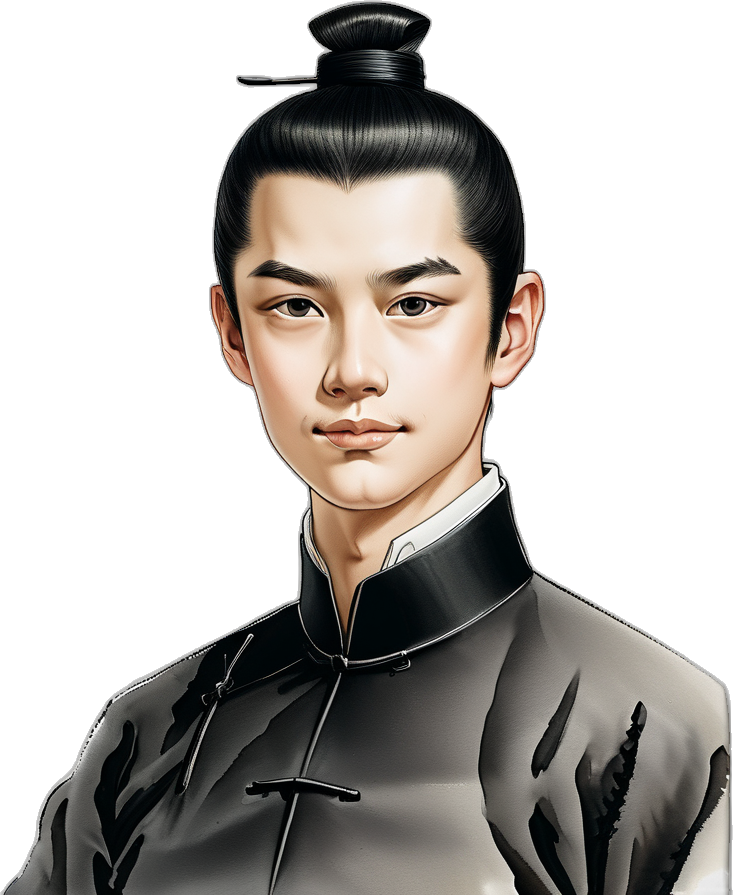
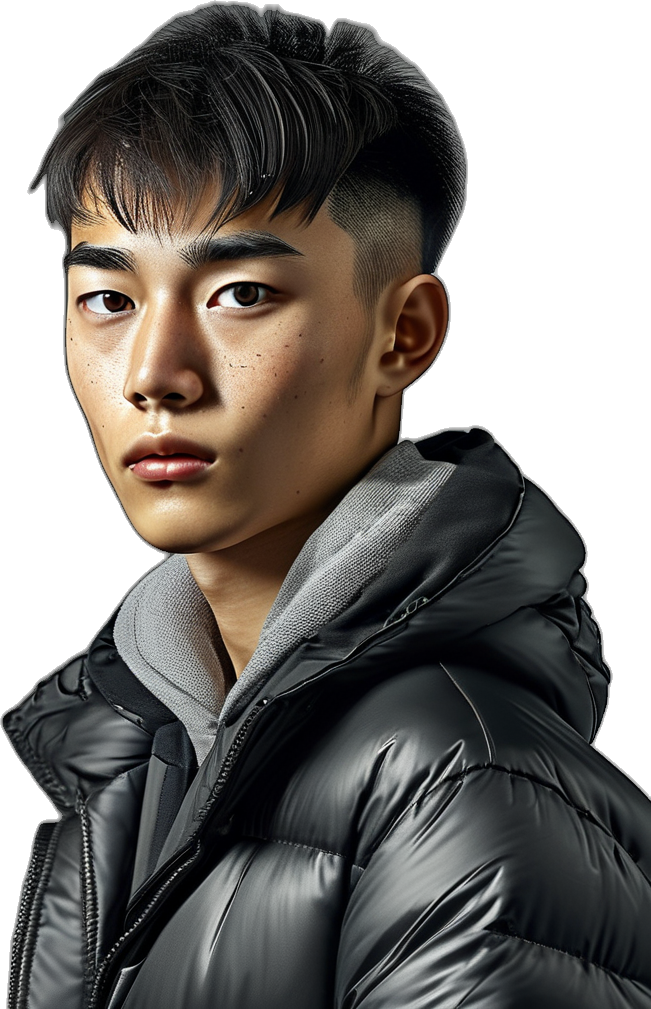
缩小立绘显示；穿越前角色（我/PM/算命）改为现代装束。

diff --git a/framework/css/style.css b/framework/css/style.css
@@ -28,9 +28,9 @@ html, body {
   left: 2vw;
   bottom: 0;
   z-index: 2;
-  height: min(70vh, 680px);
+  height: min(42vh, 380px);
   width: auto;
-  max-width: min(46vw, 420px);
+  max-width: min(28vw, 260px);
   object-fit: contain;
   object-position: left bottom;
   background: transparent;
@@ -38,7 +38,7 @@ html, body {
   transform: translateX(-24px);
   transition: opacity 0.35s ease, transform 0.35s ease;
   pointer-events: none;
-  filter: drop-shadow(0 8px 20px rgba(0,0,0,0.45));
+  filter: drop-shadow(0 6px 14px rgba(0,0,0,0.4));
   visibility: hidden;
 }
 
@@ -144,8 +144,8 @@ html, body {
 /* 窄屏/低分辨率：文字更紧凑、间距减小，避免和选项叠加 */
 @media (max-width: 720px), (max-height: 640px) {
   #portrait {
-    height: min(48vh, 360px);
-    max-width: 55vw;
+    height: min(32vh, 240px);
+    max-width: 38vw;
     left: 2vw;
   }
   #overlay {
